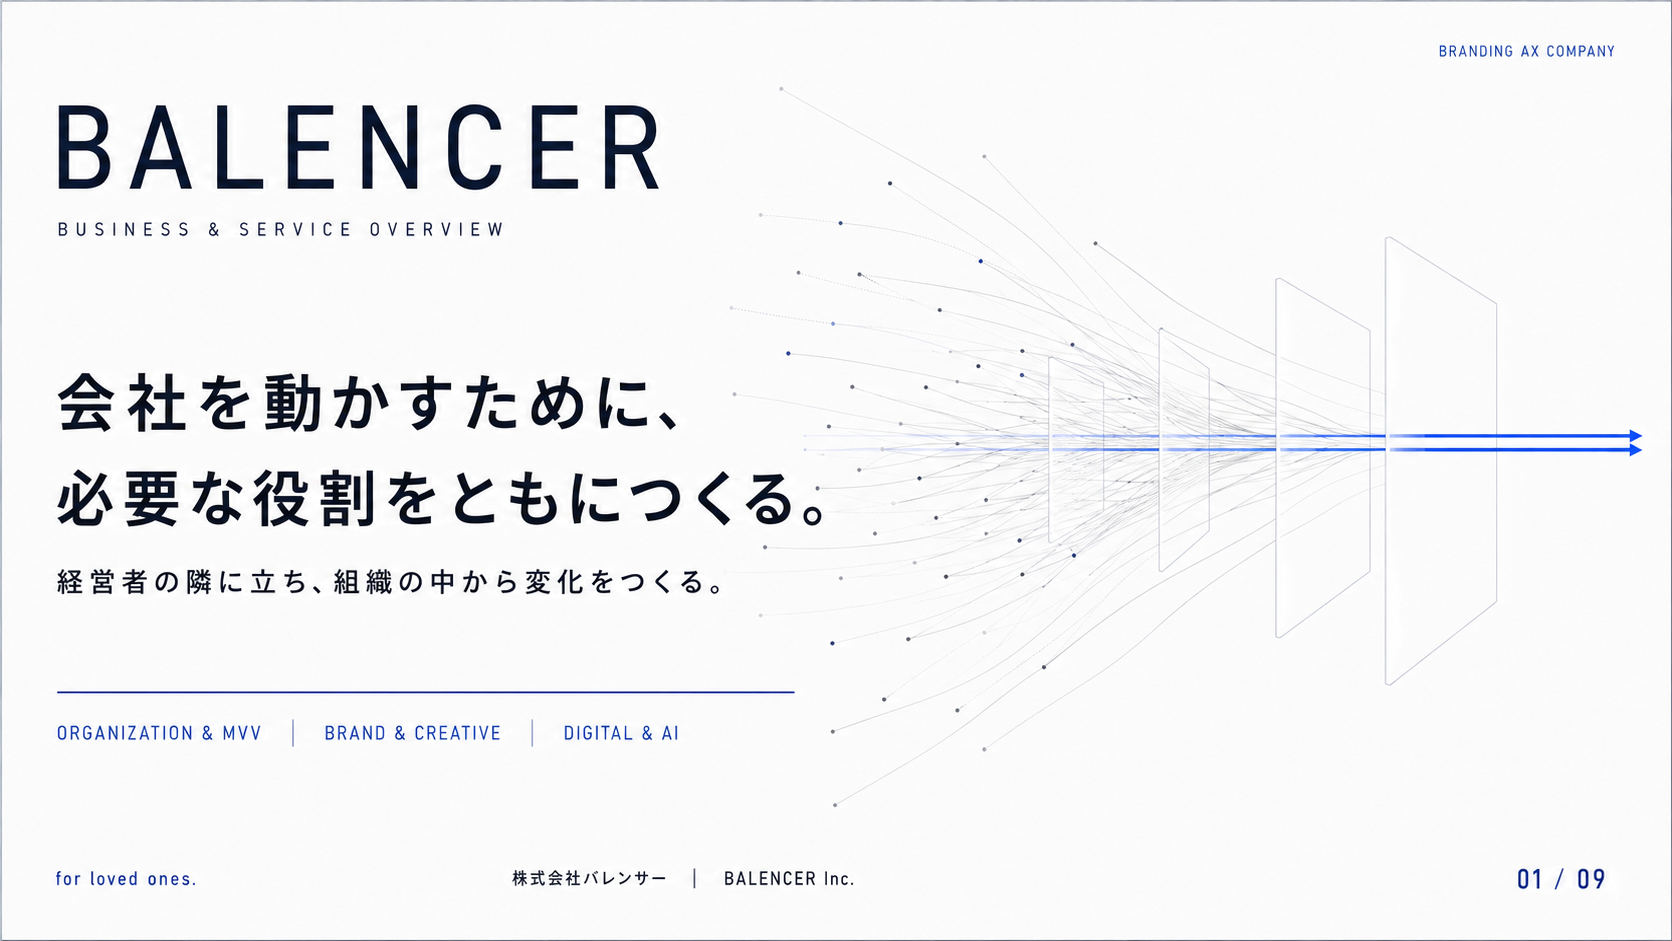
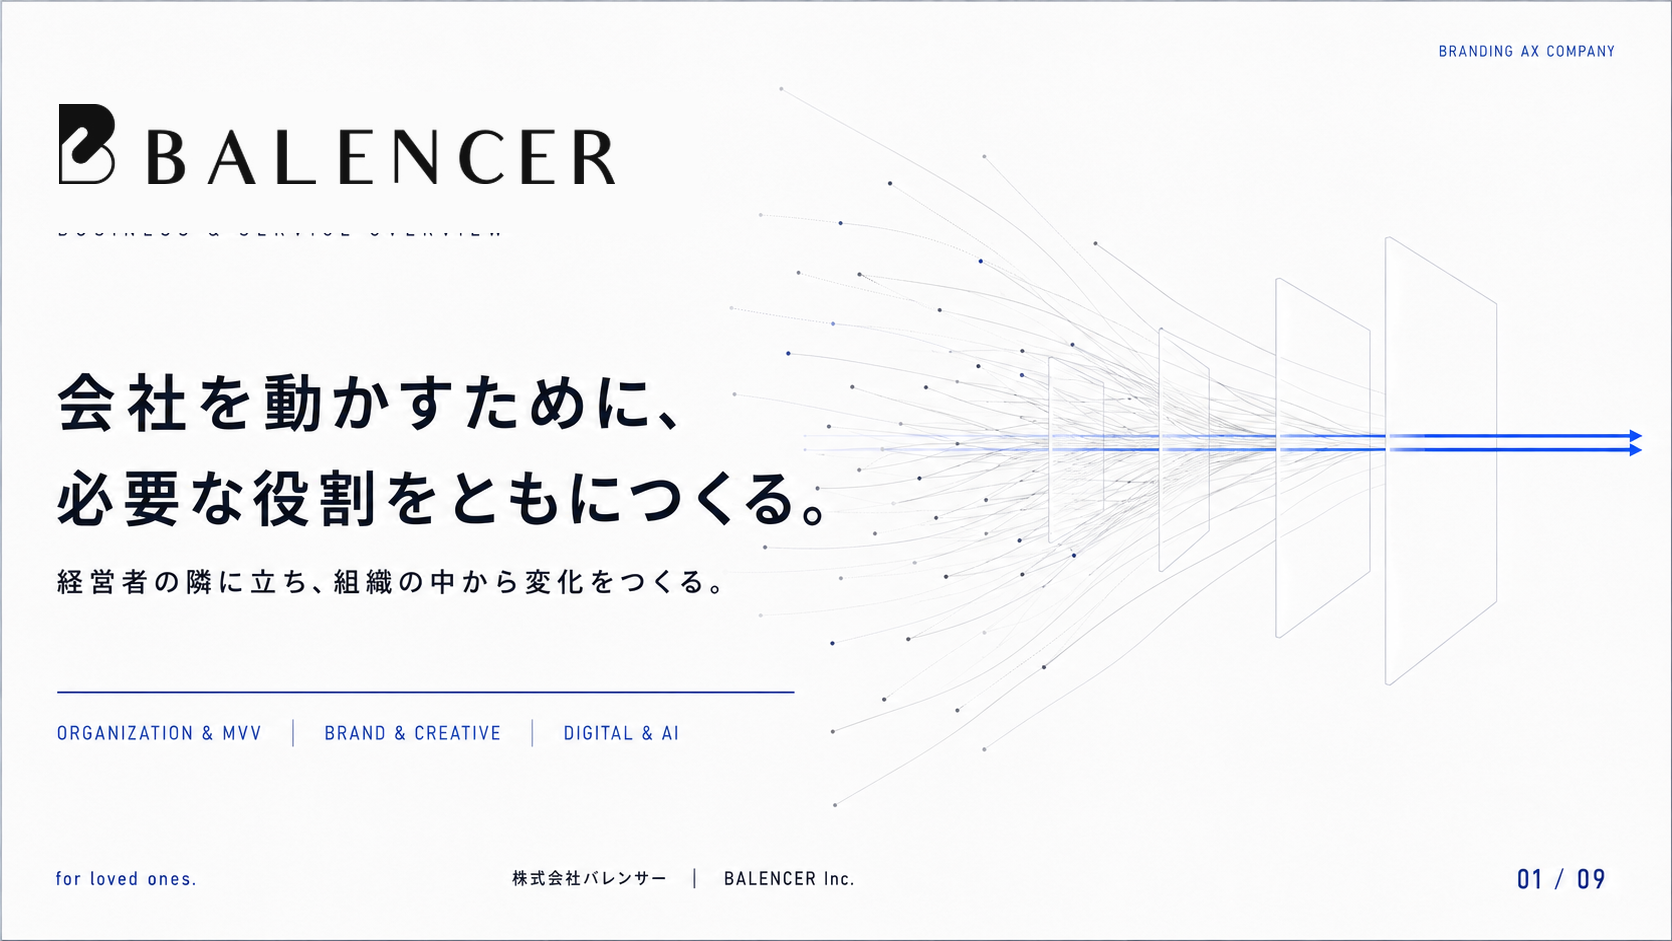
デッキ微修正: 営業デッキ表紙を公式ロゴ差替＋p9メールinfo@balencer.jp、会社案内デッキに表紙へ戻るホームボタン実装。両デッキのソースをdocs/company/に格納

Changed region(s): [[0.0311, 0.0925, 0.4043, 0.2465]]

diff --git a/docs/company/brand-profile-deck/styles.css b/docs/company/brand-profile-deck/styles.css
@@ -1,0 +1,3 @@
+:root{--ink:#202124;--paper:#f2f2ef;--blue:#1458e5}*{box-sizing:border-box}html,body{margin:0;min-height:100%;overflow:hidden;background:#e8e8e5;color:var(--ink);font-family:Arial,"Helvetica Neue",sans-serif}button{color:inherit;font:inherit}.sr-only{position:absolute;width:1px;height:1px;padding:0;margin:-1px;overflow:hidden;clip:rect(0,0,0,0);white-space:nowrap;border:0}.reader{position:relative;display:grid;width:100vw;height:100svh;place-items:center;overflow:hidden;background:radial-gradient(circle at 50% 42%,rgba(255,255,255,.96) 0,rgba(246,246,243,.9) 36%,transparent 72%),#e7e7e3;user-select:none}.book{position:relative;width:min(92vw,calc(92svh * 16 / 9));aspect-ratio:16/9;perspective:2400px;transform-style:preserve-3d;filter:drop-shadow(0 24px 55px rgba(18,20,22,.13))}.page{position:absolute;inset:0;margin:0;overflow:hidden;background:#fff;transform-origin:left center;transform-style:preserve-3d;backface-visibility:hidden;transition:transform 820ms cubic-bezier(.22,.72,.16,1),opacity 620ms ease,filter 820ms ease;will-change:transform}.page img{display:block;width:100%;height:100%;object-fit:contain;background:#fff;pointer-events:none}.page--current{opacity:1;transform:rotateY(0) translateZ(0);filter:brightness(1)}.page--past{opacity:0;transform:rotateY(-100deg);filter:brightness(.8);pointer-events:none}.page--future{opacity:0;transform:rotateY(6deg) translateX(1.2%);pointer-events:none}.page-shade{position:absolute;inset:0;background:linear-gradient(90deg,rgba(15,18,20,.2),transparent 12%,transparent 80%,rgba(10,14,18,.08));opacity:0;transition:opacity 820ms ease;pointer-events:none}.page--past .page-shade{opacity:.72}.tap-zone{position:fixed;z-index:20;top:14%;bottom:14%;width:18%;border:0;background:transparent;cursor:pointer}.tap-zone:disabled{cursor:default}.tap-zone--prev{left:0}.tap-zone--next{right:0}.topbar{position:fixed;z-index:30;top:24px;left:30px;right:30px;display:flex;align-items:baseline;gap:15px;opacity:0;transform:translateY(-7px);transition:.35s;pointer-events:none}.is-visible{opacity:1!important;transform:translateY(0)!important}.wordmark{font-size:12px;font-weight:650;letter-spacing:.3em}.home-button{border:0;background:transparent;color:inherit;font:inherit;font-size:12px;font-weight:650;letter-spacing:.3em;padding:0;cursor:pointer;pointer-events:auto;transition:opacity .2s}.home-button:hover{opacity:.55}.descriptor{color:#797b7d;font-size:9px;letter-spacing:.24em}.controls{position:fixed;z-index:40;right:28px;bottom:22px;left:28px;display:grid;grid-template-columns:1fr auto 1fr;align-items:center;opacity:0;transform:translateY(7px);transition:.35s}.controls button{border:0;background:transparent;cursor:pointer}.controls button:disabled{opacity:.25;cursor:default}.control-button{display:flex;align-items:center;gap:9px;width:max-content;padding:9px 2px;color:#4f5153;font-size:9px;letter-spacing:.18em}.control-button:last-child{justify-self:end}.grid-icon{width:13px;height:13px;border:1px solid currentColor;position:relative}.grid-icon:after{content:"";position:absolute;inset:5px -1px;border-top:1px solid currentColor;border-bottom:1px solid currentColor}.fullscreen-icon{display:block;width:13px;height:13px;border:1px solid currentColor}.pagination{display:flex;align-items:center;gap:16px;padding:6px 12px;border:1px solid rgba(45,47,49,.14);background:rgba(245,245,242,.72);backdrop-filter:blur(12px)}.pagination button{width:28px;height:25px;padding:0}.pagination span{display:flex;align-items:center;gap:9px;color:#858789;font-size:10px;letter-spacing:.12em}.pagination b{color:var(--ink)}.pagination em{font-style:normal}.pagination i{display:block;width:25px;height:1px;background:#a8aaac}.progress{position:fixed;z-index:35;right:0;bottom:0;left:0;height:2px;background:rgba(25,28,31,.08)}.progress span{display:block;width:100%;height:100%;background:var(--blue);transform-origin:left;transition:transform 650ms cubic-bezier(.22,.72,.16,1)}.overview[hidden]{display:none}.overview{position:fixed;z-index:100;inset:0;overflow-y:auto;padding:30px clamp(24px,5vw,84px) 70px;background:rgba(242,242,239,.97);backdrop-filter:blur(22px);animation:fade .35s ease}.overview header{position:sticky;z-index:2;top:-30px;display:flex;align-items:flex-start;justify-content:space-between;margin:0 0 28px;padding:30px 0 18px;background:linear-gradient(var(--paper) 72%,transparent)}.overview header p{margin:7px 0 0;color:#777a7c;font-size:9px;letter-spacing:.22em}.overview header button{display:flex;align-items:center;gap:10px;padding:0;border:0;background:transparent;cursor:pointer;font-size:9px;letter-spacing:.18em}.overview header button span{font-size:20px}.overview-grid{display:grid;grid-template-columns:repeat(3,minmax(0,1fr));gap:clamp(18px,2.4vw,42px) clamp(14px,2vw,34px)}.overview-grid button{position:relative;padding:0;border:0;background:#fff;box-shadow:0 10px 30px rgba(20,22,24,.07);cursor:pointer;transition:.25s}.overview-grid button:hover{transform:translateY(-4px);box-shadow:0 15px 38px rgba(20,22,24,.12)}.overview-grid button.is-current:after{content:"";position:absolute;inset:0;border:2px solid var(--blue)}.overview-grid img{display:block;width:100%;aspect-ratio:16/9;object-fit:cover}.overview-grid button>span{position:absolute;right:8px;bottom:-20px;color:#656769;font-size:9px;letter-spacing:.12em}@keyframes fade{from{opacity:0}to{opacity:1}}
+@media(max-width:760px){.book{width:min(100vw,calc(84svh * 16 / 9));perspective:1250px}.page{transform-origin:left center;transition:transform 760ms cubic-bezier(.2,.74,.14,1),opacity 560ms ease,filter 760ms ease}.page--past{opacity:0;transform:rotateY(-108deg);filter:brightness(.74)}.page--future{opacity:0;transform:rotateY(8deg) translateX(1.5%) translateZ(-5px)}.page--past .page-shade{opacity:.86}.tap-zone{top:20%;bottom:20%;width:25%}.topbar{top:18px;left:18px}.controls{right:15px;bottom:15px;left:15px}.control-button span:last-child{display:none}.overview{padding:22px 18px 55px}.overview header{top:-22px;padding-top:22px}.overview-grid{grid-template-columns:repeat(2,minmax(0,1fr));gap:27px 12px}}
+@media(prefers-reduced-motion:reduce){.page,.progress,.topbar,.controls{transition-duration:1ms!important}.page--past,.page--future{transform:none}}

diff --git a/docs/company/brand-profile-deck/app.js b/docs/company/brand-profile-deck/app.js
@@ -1,0 +1,130 @@
+const slideCount = 14;
+const slides = Array.from(
+  { length: slideCount },
+  (_, i) => `./slides/slide-${String(i + 1).padStart(2, "0")}.png`,
+);
+
+const reader = document.querySelector(".reader");
+const book = document.querySelector(".book");
+const overview = document.querySelector(".overview");
+const overviewGrid = document.querySelector(".overview-grid");
+const controls = document.querySelector(".controls");
+const topbar = document.querySelector(".topbar");
+const currentLabel = document.querySelector(".pagination b");
+const progress = document.querySelector(".progress span");
+const prevButtons = document.querySelectorAll(".prev-button, .tap-zone--prev");
+const nextButtons = document.querySelectorAll(".next-button, .tap-zone--next");
+let current = 0;
+let wheelLocked = false;
+let touchStartX = null;
+let controlsTimer = null;
+
+slides.forEach((src, index) => {
+  const page = document.createElement("figure");
+  page.className = "page";
+  page.innerHTML = `<img src="${src}" alt="BALENCER Brand Profile ${index + 1}ページ" draggable="false"><span class="page-shade"></span>`;
+  book.appendChild(page);
+
+  const thumb = document.createElement("button");
+  thumb.innerHTML = `<img src="${src}" alt="${index + 1}ページへ移動" loading="lazy"><span>${String(index + 1).padStart(2, "0")}</span>`;
+  thumb.addEventListener("click", () => {
+    goTo(index);
+    overview.hidden = true;
+  });
+  overviewGrid.appendChild(thumb);
+});
+
+const pages = [...document.querySelectorAll(".page")];
+const thumbs = [...overviewGrid.querySelectorAll("button")];
+
+function update() {
+  pages.forEach((page, index) => {
+    const state = index < current ? "past" : index === current ? "current" : "future";
+    page.className = `page page--${state}`;
+    page.style.zIndex = slideCount - Math.abs(index - current);
+    page.setAttribute("aria-hidden", String(index !== current));
+  });
+  thumbs.forEach((thumb, index) => thumb.classList.toggle("is-current", index === current));
+  currentLabel.textContent = String(current + 1).padStart(2, "0");
+  progress.style.transform = `scaleX(${(current + 1) / slideCount})`;
+  prevButtons.forEach((button) => (button.disabled = current === 0));
+  nextButtons.forEach((button) => (button.disabled = current === slideCount - 1));
+  revealControls();
+}
+
+function goTo(index) {
+  current = Math.max(0, Math.min(slideCount - 1, index));
+  update();
+}
+
+function revealControls() {
+  controls.classList.add("is-visible");
+  topbar.classList.add("is-visible");
+  clearTimeout(controlsTimer);
+  controlsTimer = setTimeout(() => {
+    if (!overview.hidden) return;
+    controls.classList.remove("is-visible");
+    topbar.classList.remove("is-visible");
+  }, 2600);
+}
+
+prevButtons.forEach((button) => button.addEventListener("click", () => goTo(current - 1)));
+nextButtons.forEach((button) => button.addEventListener("click", () => goTo(current + 1)));
+document.querySelector(".home-button")?.addEventListener("click", () => {
+  overview.hidden = true;
+  goTo(0);
+});
+document.querySelector(".index-button").addEventListener("click", () => {
+  overview.hidden = false;
+  revealControls();
+});
+document.querySelector(".close-button").addEventListener("click", () => {
+  overview.hidden = true;
+});
+document.querySelector(".full-button").addEventListener("click", async () => {
+  if (!document.fullscreenElement) await document.documentElement.requestFullscreen?.();
+  else await document.exitFullscreen?.();
+});
+
+reader.addEventListener("mousemove", revealControls);
+reader.addEventListener(
+  "wheel",
+  (event) => {
+    revealControls();
+    if (!overview.hidden || wheelLocked || Math.abs(event.deltaY) < 18) return;
+    wheelLocked = true;
+    goTo(current + (event.deltaY > 0 ? 1 : -1));
+    setTimeout(() => (wheelLocked = false), 760);
+  },
+  { passive: true },
+);
+reader.addEventListener("touchstart", (event) => {
+  touchStartX = event.touches[0]?.clientX ?? null;
+  revealControls();
+}, { passive: true });
+reader.addEventListener("touchend", (event) => {
+  if (touchStartX === null) return;
+  const distance = touchStartX - (event.changedTouches[0]?.clientX ?? 0);
+  if (Math.abs(distance) > 45) goTo(current + (distance > 0 ? 1 : -1));
+  touchStartX = null;
+}, { passive: true });
+
+window.addEventListener("keydown", (event) => {
+  if (event.key === "Escape") {
+    overview.hidden = true;
+    return;
+  }
+  if (!overview.hidden) return;
+  if (["ArrowRight", "ArrowDown", " ", "PageDown"].includes(event.key)) {
+    event.preventDefault();
+    goTo(current + 1);
+  }
+  if (["ArrowLeft", "ArrowUp", "PageUp"].includes(event.key)) {
+    event.preventDefault();
+    goTo(current - 1);
+  }
+  if (event.key === "Home") goTo(0);
+  if (event.key === "End") goTo(slideCount - 1);
+});
+
+update();

diff --git a/docs/company/brand-profile-deck/index.html b/docs/company/brand-profile-deck/index.html
@@ -1,0 +1,51 @@
+<!doctype html>
+<html lang="ja">
+  <head>
+    <meta charset="UTF-8" />
+    <meta name="viewport" content="width=device-width, initial-scale=1, viewport-fit=cover" />
+    <meta name="theme-color" content="#f2f2ef" />
+    <title>BALENCER — Brand Profile</title>
+    <meta
+      name="description"
+      content="経営と並走する、ブランディングカンパニー。株式会社バレンサーのブランドプロフィール。"
+    />
+    <link rel="stylesheet" href="./styles.css" />
+  </head>
+  <body>
+    <main class="reader">
+      <h1 class="sr-only">BALENCER Brand Profile</h1>
+      <div class="book" aria-live="polite"></div>
+      <button class="tap-zone tap-zone--prev" aria-label="前のページ"></button>
+      <button class="tap-zone tap-zone--next" aria-label="次のページ"></button>
+
+      <header class="topbar is-visible">
+        <button class="wordmark home-button" aria-label="表紙（トップ）に戻る" title="表紙に戻る">BALENCER</button>
+        <span class="descriptor">BRAND PROFILE</span>
+      </header>
+
+      <nav class="controls is-visible" aria-label="ページ操作">
+        <button class="control-button index-button" aria-label="ページ一覧">
+          <span class="grid-icon" aria-hidden="true"></span><span>INDEX</span>
+        </button>
+        <div class="pagination">
+          <button class="prev-button" aria-label="前のページ">←</button>
+          <span><b>01</b><i></i><em>14</em></span>
+          <button class="next-button" aria-label="次のページ">→</button>
+        </div>
+        <button class="control-button full-button" aria-label="全画面表示">
+          <span class="fullscreen-icon" aria-hidden="true"></span><span>FULL</span>
+        </button>
+      </nav>
+      <div class="progress" aria-hidden="true"><span></span></div>
+
+      <section class="overview" aria-label="ページ一覧" hidden>
+        <header>
+          <div><span class="wordmark">BALENCER</span><p>BRAND PROFILE / ALL PAGES</p></div>
+          <button class="close-button" aria-label="一覧を閉じる">CLOSE <span>×</span></button>
+        </header>
+        <div class="overview-grid"></div>
+      </section>
+    </main>
+    <script src="./app.js"></script>
+  </body>
+</html>

diff --git a/docs/_knowledge/company.md b/docs/_knowledge/company.md
@@ -15,7 +15,9 @@
 - 先日デプロイの会社案内デッキ（balencer-brand-profile.vercel.app）は既に新デザイン正本と一致（白×グラファイト×コバルト、ページめくり）。
 - **同日追加（サービス正本）**: 3本目のマスター `docs/company/BALENCER_SERVICE_PRICING_MASTER.md` を制定。正式サービス名を **SPOT 経営整理・ミッション(30万/回)／CONSULT 経営相談(月20万)／PARTNER 経営伴走(月30-50万)／EXECUTIVE 経営参画(月60-100万)／PROJECT 制作・開発・実装(個別見積)** に統一。月額=初回6ヶ月・以降3ヶ月更新・末日締め翌月末、基本契約先=CONSULT/PARTNER。**ENTRY／MAIN／PREMIUM／ENTRANCE／CORE／SUMMIT は退役**。SOERU／M&A／補助金／保守／AIアニメは一般資料に載せない。CLAUDE.md §1 サービス節・services.md・README・memory(front_product)・MEMORY.md索引を整合。**マスター本体 `docs/company/BALENCER_SERVICE_PRICING_MASTER.md` を格納済み（クリーンUTF-8）**。これで会社正本は3本（MASTER_CONTEXT／DESIGN_SYSTEM／SERVICE_PRICING）。
 - **営業デッキ（Web版）公開＆格納**: Next.js製9枚デッキを本番公開 → https://balencer-business-deck.vercel.app （/business）。ソース一式を `docs/company/business-deck-web/` に格納。中身は新サービス正本と一致（SPOT/CONSULT/PARTNER/EXECUTIVE/PROJECT・初回6ヶ月・迷ったらCONSULT/PARTNER）。デプロイは独立フォルダから `npx vercel deploy --prod`（Vercel側でNextビルド）。
-- 別途デプロイ済み会社案内デッキ: https://balencer-brand-profile.vercel.app （画像14枚版・静的HTML。ソースは未格納＝必要なら別途）。
+- 会社案内(世界観)デッキ: https://balencer-brand-profile.vercel.app （画像14枚・静的HTML）。ソースを `docs/company/brand-profile-deck/` に格納。表紙は公式ロゴに差し替え済、9枚目数字4,800、**左上ワードマークをクリックで表紙へ戻るホームボタン(.home-button)実装済**。
+- 営業(具体)デッキの微修正（2026-07-28）: 表紙01の生成ワードマークを公式ロゴ(icon付き)に差し替え（サブタイトルBUSINESS & SERVICE OVERVIEWとの余白確保）、9枚目LET'S TALKの連絡先メールを **info@balencer.jp** に変更。両PNG差し替え済み・再デプロイ済み。
+- 画像PNGの部分差し替えは Pillow で実施（背景がフラット箇所を同色で塗り→ロゴ合成／数字はHelvetica Neueで再描画）。手順の型として再利用可。
 
 ## 2026-06-14 秘書＋担当システムをリポジトリに集約
 - バレンサーのAI社員（秘書＋各担当）を `.claude/skills/` に集約し、リポジトリを唯一の正解にした。CLI・デスクトップ・クラウド/Webのどこでも同じ秘書が使える状態。

diff --git a/docs/company/brand-profile-deck/README.md b/docs/company/brand-profile-deck/README.md
@@ -1,0 +1,24 @@
+# BALENCER Brand Profile
+
+画像ベースのデジタルブランドブックです。PC・スマートフォンのページめくり、一覧表示、全画面表示を含みます。
+
+## Vercelへの公開
+
+1. このフォルダ一式をGitHubリポジトリへ入れます。
+2. VercelでそのリポジトリをImportします。
+3. Framework Presetは `Other`、Build Commandは空欄、Output Directoryは `.` を指定します。
+4. 公開後、VercelのDomainsから独自ドメインを設定します。
+
+## ページ画像の差し替え
+
+`slides/slide-01.png` から `slide-14.png` を、同じファイル名・16:9サイズの画像で置き換えてください。HTMLやJavaScriptを変更する必要はありません。
+
+## ローカル確認
+
+フォルダ内で簡易Webサーバーを起動してください。例：
+
+```bash
+python3 -m http.server 8080
+```
+
+その後、ブラウザで `http://localhost:8080` を開きます。
